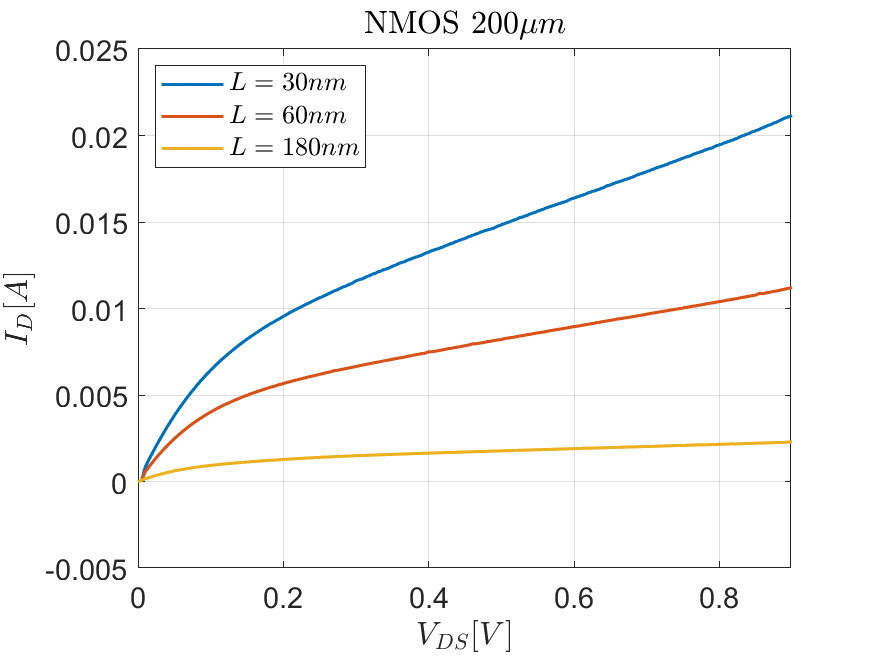
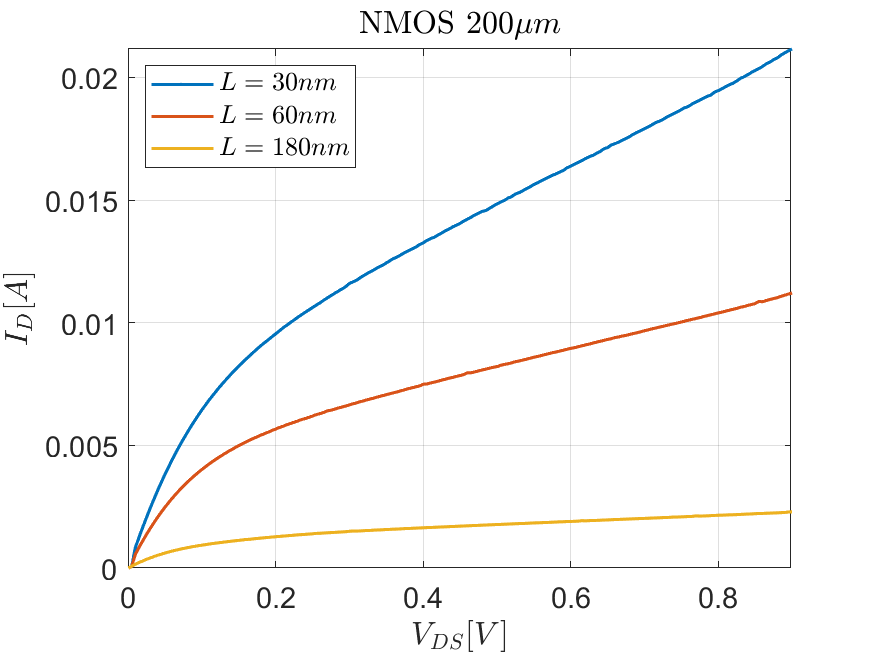
Aggiornamento Plot id-vgs e id-vds

diff --git a/Script Statiche/ScriptPlot/PLOT_ID_VGS_VDS.m b/Script Statiche/ScriptPlot/PLOT_ID_VGS_VDS.m
@@ -103,6 +103,7 @@ classdef PLOT_ID_VGS_VDS
                 PLOT_ID_VGS_VDS.grafica_plot(titolo , x_label , y_label , posizione_legenda);
                 grid on
                 xlim([min(vgs) , max(vgs)]);
+                ylim([0 inf]);
 
                 nome_plot_salvataggio = NOME_CARTELLA_SALVATAGGIO + sprintf(PREFISSO_nomePlot , VDS_mV , ARRAY_W(i));
 
@@ -203,6 +204,7 @@ classdef PLOT_ID_VGS_VDS
                 PLOT_ID_VGS_VDS.grafica_plot(titolo , x_label , y_label , posizione_legenda);
                 grid on
                 xlim([min(vds) , max(vds)]);
+                ylim([0 inf]);
 
                 nome_plot_salvataggio = NOME_CARTELLA_SALVATAGGIO + sprintf(PREFISSO_nomePlot , VGS_mV , ARRAY_W(i));
 
